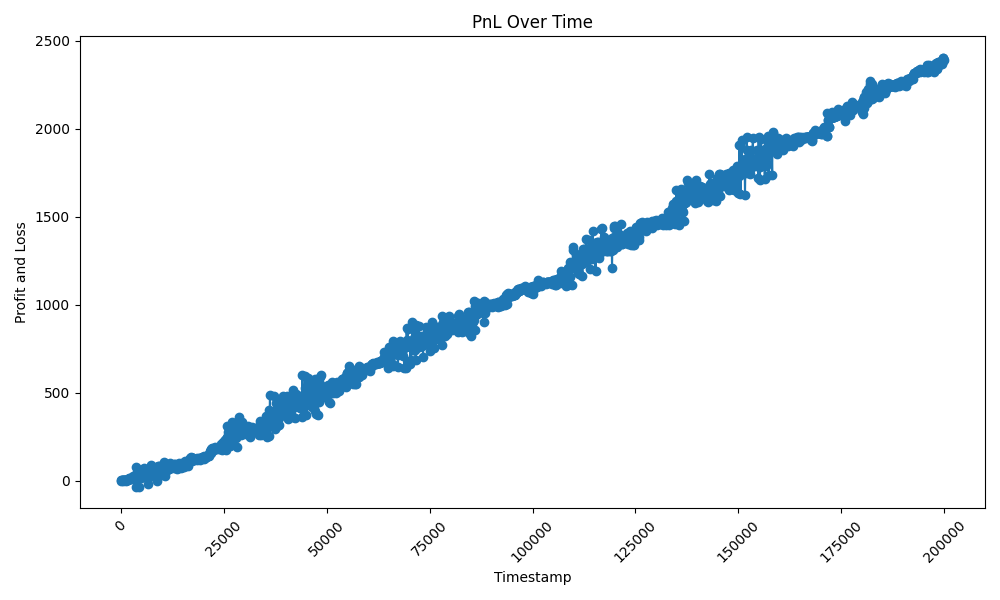
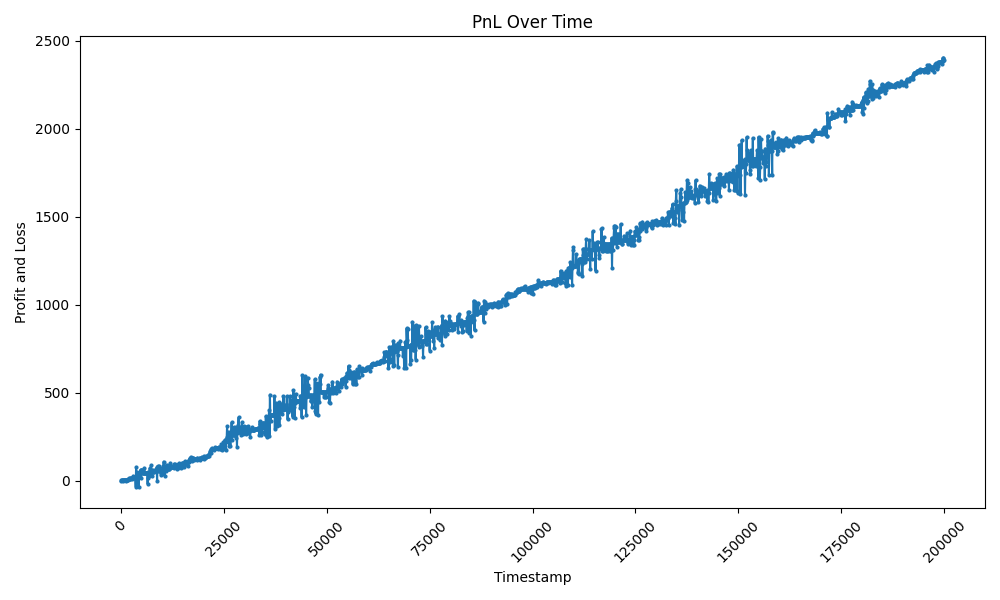
improved var naming

Changed region(s): [[0.093, 0.09, 0.961, 0.84]]

diff --git a/main.py b/main.py
@@ -8,7 +8,8 @@ from importlib import import_module
 from matcher import match_buy_order, match_sell_order
 
 VERBOSE = False
-DISPLAY_LENGTH = None
+CML_LOG_LENGTH = None
+DISPLAY_PNL = False
 
 PRODUCTS = ["RAINFOREST_RESIN", "KELP"]
 POSITION_LIMITS = {
@@ -45,14 +46,16 @@ def plot_pnl(pnl_over_time):
     timestamps, pnl_values = zip(*pnl_over_time)
     
     plt.figure(figsize=(10, 6))
-    plt.plot(timestamps, pnl_values, marker="o")
+    plt.plot(timestamps, pnl_values, marker="o", markersize=2)
     plt.xlabel("Timestamp")
     plt.ylabel("Profit and Loss")
     plt.title("PnL Over Time")
     plt.xticks(rotation=45)
     plt.tight_layout()
     plt.savefig("results/pnl_over_time.png")  # saves the plot as a PNG file
-    # plt.show()
+    
+    if DISPLAY_PNL:
+        plt.show()
 
 
 def main() -> None:
@@ -78,7 +81,7 @@ def main() -> None:
         timestamp = state.timestamp
         traded = False
         
-        if DISPLAY_LENGTH and timestamp > DISPLAY_LENGTH * 100:
+        if CML_LOG_LENGTH and timestamp > CML_LOG_LENGTH * 100:
             break
 
         # Update the state with newest trader data
@@ -124,7 +127,7 @@ def main() -> None:
                         "quantity": trade.quantity
                     })
                 
-                if DISPLAY_LENGTH and trades_executed and timestamp < DISPLAY_LENGTH * 100:
+                if CML_LOG_LENGTH and trades_executed and timestamp < CML_LOG_LENGTH * 100:
                     traded = True
                     print(f"[{timestamp}]")
                     if VERBOSE:
@@ -138,7 +141,7 @@ def main() -> None:
             mid_price = (max(state.order_depths[product].buy_orders) + min(state.order_depths[product].sell_orders)) / 2
             trader.pnl += pos * mid_price
                     
-        if traded and timestamp < DISPLAY_LENGTH * 100:
+        if traded and timestamp < CML_LOG_LENGTH * 100:
             print(f"Positions: {state.position}")
             print(f"Cash: {trader.cash}\n")
             print(f"PNL: {trader.pnl}\n")
